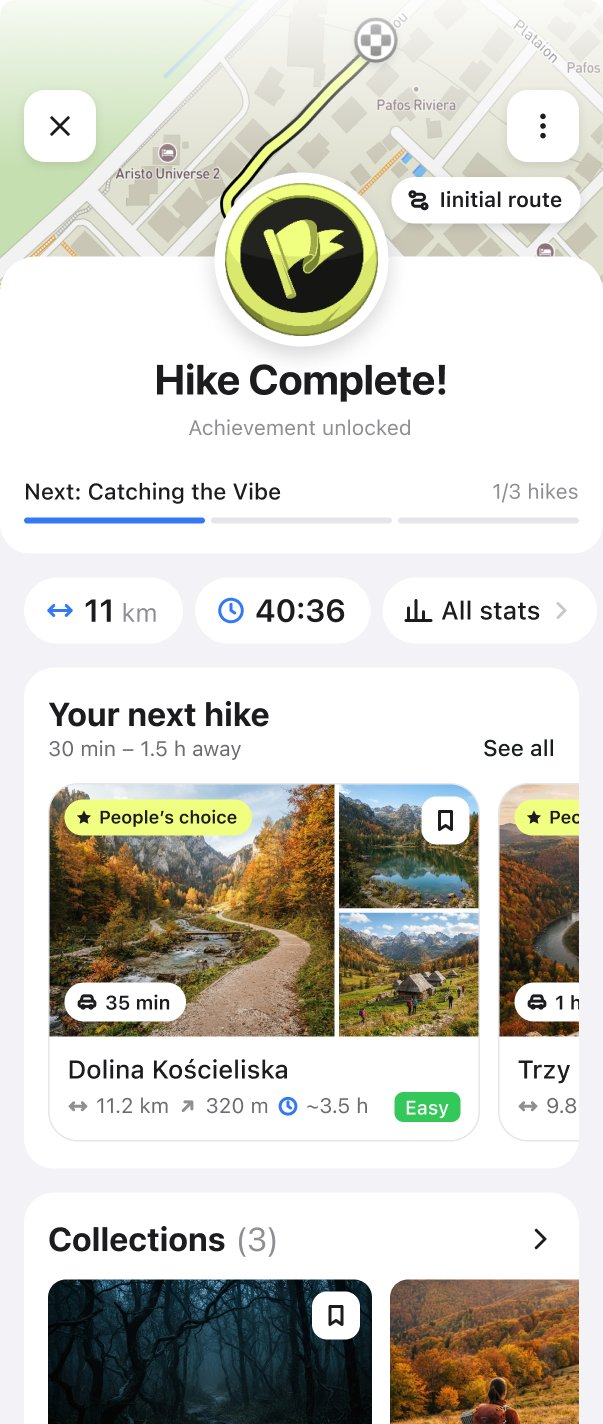
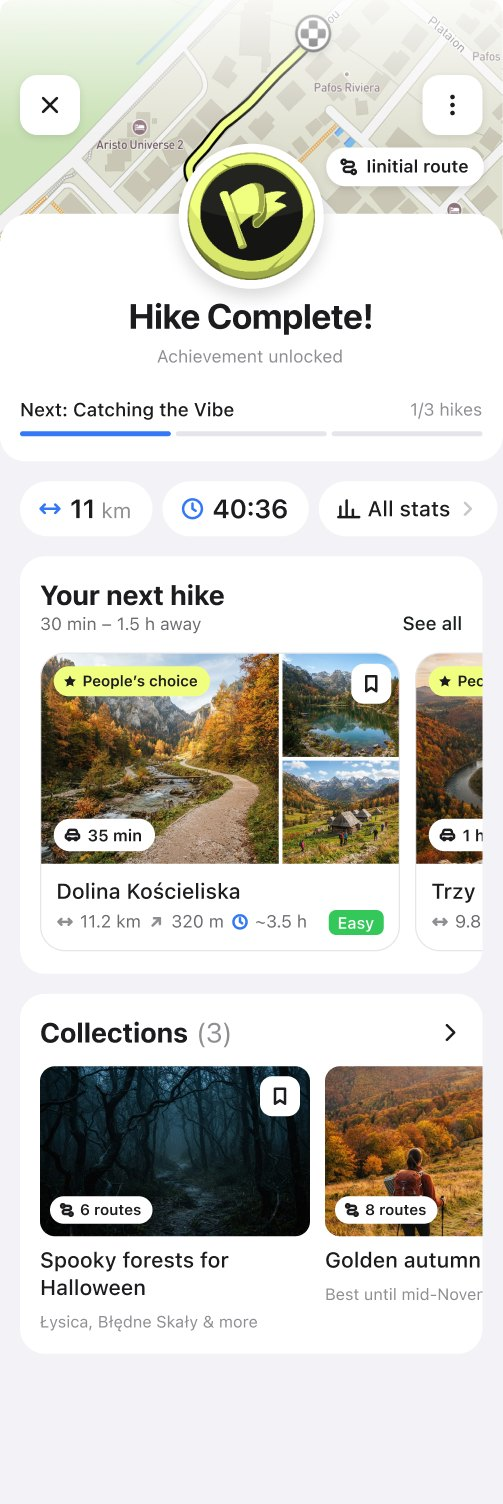
Scroll finish screen down to Collections
Claude-Session: https://claude.ai/code/session_01DaD6wmv1EUzn7A1SXnWnNL

diff --git a/index.html b/index.html
@@ -21,7 +21,7 @@
   .screen { position:absolute; left:69.2130%; top:15.0403%; width:23.2639%; height:78.2453%;
     overflow:hidden; border-radius:13.43% / 6.18%; }
   .screen img { position:absolute; left:0; top:0; width:100%; display:block; }
-  .scroll { transition:transform 2.2s cubic-bezier(.45,0,.25,1); }
+  .scroll { transition:transform 2.8s cubic-bezier(.45,0,.25,1); }
   .frame { opacity:0; }
   .frame.vis { opacity:1; }
   .bar { position:fixed; left:0; right:0; bottom:0; height:64px; display:flex; align-items:center; justify-content:center; gap:14px; }
